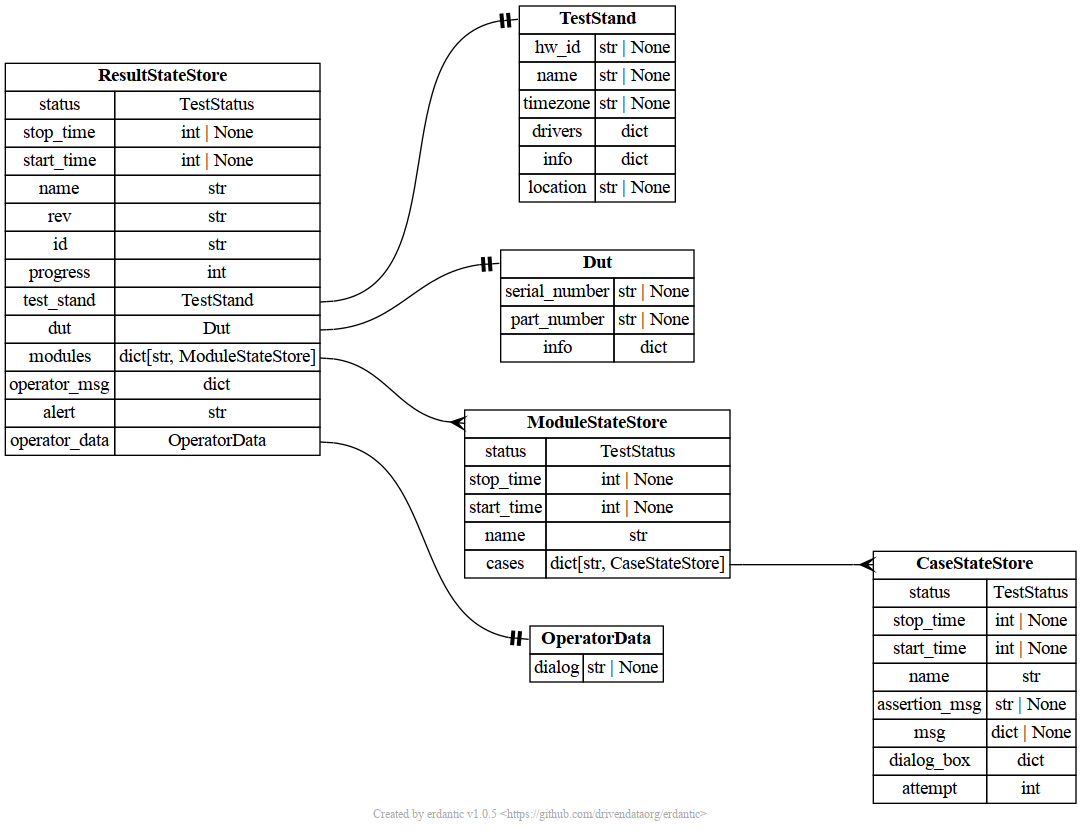
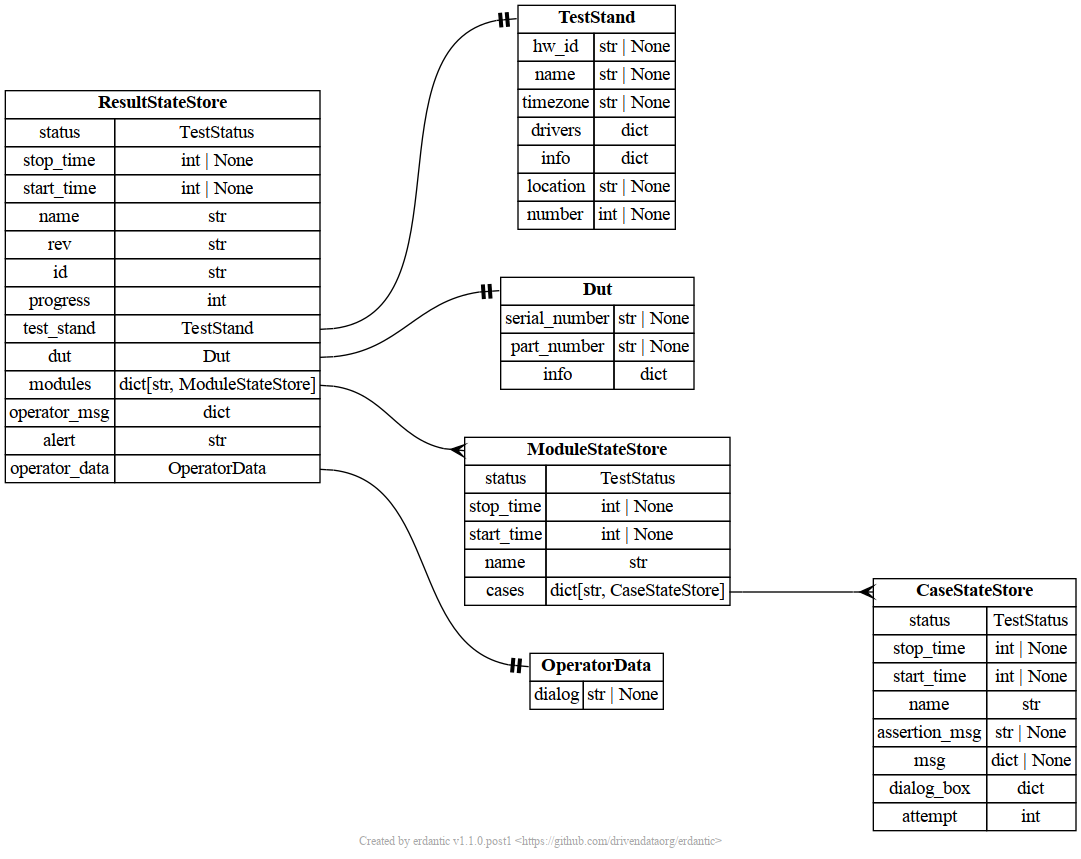
[hardpy, docs, examples, tests] Add set_stand_number function

diff --git a/tests/test_plugin/test_func.py b/tests/test_plugin/test_func.py
@@ -210,6 +210,58 @@ def test_stand_location(pytester: Pytester, hardpy_opts: list[str]):
     result.assert_outcomes(passed=1)
 
 
+def test_stand_duplicate_number(pytester: Pytester, hardpy_opts: list[str]):
+    pytester.makepyfile(
+        f"""
+        {func_test_header}
+        from hardpy import DuplicateTestStandNumberError
+
+        def test_stand_number():
+            report = hardpy.get_current_report()
+            assert (
+                report.test_stand.number is None
+            ), "Test stand number is not empty before start."
+
+            stand_number = 1
+            hardpy.set_stand_number(stand_number)
+            report = hardpy.get_current_report()
+            assert stand_number == report.test_stand.number
+
+            second_number = 2
+            with pytest.raises(DuplicateTestStandNumberError):
+                hardpy.set_stand_number(second_number)
+    """,
+    )
+    result = pytester.runpytest(*hardpy_opts)
+    result.assert_outcomes(passed=1)
+
+
+def test_stand_incorrect_number(pytester: Pytester, hardpy_opts: list[str]):
+    pytester.makepyfile(
+        f"""
+        {func_test_header}
+        from hardpy import TestStandNumberError
+
+        def test_stand_negative_number():
+            stand_number = -1
+            with pytest.raises(TestStandNumberError):
+                hardpy.set_stand_number(stand_number)
+
+        def test_stand_float_number():
+            stand_number = 1.1
+            with pytest.raises(TestStandNumberError):
+                hardpy.set_stand_number(stand_number)
+
+        def test_stand_str_number():
+            stand_number = "1"
+            with pytest.raises(TestStandNumberError):
+                hardpy.set_stand_number(stand_number)
+    """,
+    )
+    result = pytester.runpytest(*hardpy_opts)
+    result.assert_outcomes(passed=3)
+
+
 def test_stand_info(pytester: Pytester, hardpy_opts: list[str]):
     pytester.makepyfile(
         f"""

diff --git a/hardpy/pytest_hardpy/pytest_call.py b/hardpy/pytest_hardpy/pytest_call.py
@@ -23,8 +23,10 @@ from hardpy.pytest_hardpy.utils import (
     DuplicateSerialNumberError,
     DuplicateTestStandLocationError,
     DuplicateTestStandNameError,
+    DuplicateTestStandNumberError,
     HTMLComponent,
     ImageComponent,
+    TestStandNumberError,
 )
 
 
@@ -138,12 +140,35 @@ def set_stand_location(location: str) -> None:
 
     Args:
         location (str): test stand location
+
+    Raises:
+        DuplicateTestStandLocationError: if test stand location is already set
     """
     reporter = RunnerReporter()
     key = reporter.generate_key(DF.TEST_STAND, DF.LOCATION)
     if reporter.get_field(key):
         raise DuplicateTestStandLocationError
     reporter.set_doc_value(key, location)
+    reporter.update_db_by_doc()
+
+
+def set_stand_number(number: int) -> None:
+    """Add test stand number to document.
+
+    Args:
+        number (int): test stand number (non negative integer)
+
+    Raises:
+        DuplicateTestStandNumberError: if stand number is already set
+        TestStandNumberError: if stand number is incorrect (negative or non integer)
+    """
+    reporter = RunnerReporter()
+    key = reporter.generate_key(DF.TEST_STAND, DF.NUMBER)
+    if not isinstance(number, int) or number < 0:
+        raise TestStandNumberError
+    if reporter.get_field(key):
+        raise DuplicateTestStandNumberError
+    reporter.set_doc_value(key, number)
     reporter.update_db_by_doc()
 
 

diff --git a/hardpy/__init__.py b/hardpy/__init__.py
@@ -19,6 +19,7 @@ from hardpy.pytest_hardpy.pytest_call import (
     set_stand_info,
     set_stand_location,
     set_stand_name,
+    set_stand_number,
 )
 from hardpy.pytest_hardpy.result import (
     CouchdbLoader,
@@ -34,12 +35,14 @@ from hardpy.pytest_hardpy.utils import (
     DuplicateSerialNumberError,
     DuplicateTestStandLocationError,
     DuplicateTestStandNameError,
+    DuplicateTestStandNumberError,
     HTMLComponent,
     ImageComponent,
     MultistepWidget,
     NumericInputWidget,
     RadiobuttonWidget,
     StepWidget,
+    TestStandNumberError,
     TextInputWidget,
 )
 
@@ -53,6 +56,7 @@ __all__ = [
     "DuplicateSerialNumberError",
     "DuplicateTestStandLocationError",
     "DuplicateTestStandNameError",
+    "DuplicateTestStandNumberError",
     "HTMLComponent",
     "ImageComponent",
     "MultistepWidget",
@@ -63,6 +67,7 @@ __all__ = [
     "StandCloudLoader",
     "StandCloudReader",
     "StepWidget",
+    "TestStandNumberError",
     "TextInputWidget",
     "clear_operator_message",
     "get_current_attempt",
@@ -80,4 +85,5 @@ __all__ = [
     "set_stand_info",
     "set_stand_location",
     "set_stand_name",
+    "set_stand_number",
 ]

diff --git a/hardpy/pytest_hardpy/db/schema/v1.py b/hardpy/pytest_hardpy/db/schema/v1.py
@@ -188,7 +188,8 @@ class TestStand(BaseModel):
             "port": 8000
           }
         },
-        "location": "Belgrade_1"
+        "location": "Belgrade_1",
+        "number": 2
       }
     }
     ```
@@ -202,6 +203,7 @@ class TestStand(BaseModel):
     drivers: dict = {}
     info: dict = {}
     location: str | None = None
+    number: int | None = None
 
 
 class OperatorData(BaseModel):
@@ -261,7 +263,8 @@ class ResultStateStore(IBaseResult):
             "port": 8000
           }
         },
-        "location": "Belgrade_1"
+        "location": "Belgrade_1",
+        "number": 2
       },
       "operator_msg": {
         "msg": "Operator message",
@@ -363,7 +366,8 @@ class ResultRunStore(IBaseResult):
             "port": 8000
           }
         },
-        "location": "Belgrade_1"
+        "location": "Belgrade_1",
+        "number": 2
       },
       "artifact": {},
       "modules": {

diff --git a/hardpy/pytest_hardpy/utils/__init__.py b/hardpy/pytest_hardpy/utils/__init__.py
@@ -20,7 +20,9 @@ from hardpy.pytest_hardpy.utils.exception import (
     DuplicateSerialNumberError,
     DuplicateTestStandLocationError,
     DuplicateTestStandNameError,
+    DuplicateTestStandNumberError,
     ImageError,
+    TestStandNumberError,
     WidgetInfoError,
 )
 from hardpy.pytest_hardpy.utils.machineid import machine_id
@@ -37,6 +39,7 @@ __all__ = [
     "DuplicateSerialNumberError",
     "DuplicateTestStandLocationError",
     "DuplicateTestStandNameError",
+    "DuplicateTestStandNumberError",
     "HTMLComponent",
     "ImageComponent",
     "ImageError",
@@ -47,6 +50,7 @@ __all__ = [
     "RadiobuttonWidget",
     "SingletonMeta",
     "StepWidget",
+    "TestStandNumberError",
     "TestStatus",
     "TextInputWidget",
     "WidgetInfoError",

diff --git a/hardpy/pytest_hardpy/utils/exception.py b/hardpy/pytest_hardpy/utils/exception.py
@@ -37,6 +37,20 @@ class DuplicateTestStandLocationError(HardpyError):
         super().__init__(self.__doc__)  # type: ignore
 
 
+class DuplicateTestStandNumberError(HardpyError):
+    """The test stand number has already been determined."""
+
+    def __init__(self) -> None:
+        super().__init__(self.__doc__)  # type: ignore
+
+
+class TestStandNumberError(HardpyError):
+    """The test stand number is in the incorrect format."""
+
+    def __init__(self) -> None:
+        super().__init__(self.__doc__)  # type: ignore
+
+
 class WidgetInfoError(HardpyError):
     """The widget info is not correct."""
 

diff --git a/hardpy/pytest_hardpy/db/base_store.py b/hardpy/pytest_hardpy/db/base_store.py
@@ -100,6 +100,7 @@ class BaseStore(BaseConnector):
                     DF.NAME: None,
                     DF.TIMEZONE: None,
                     DF.LOCATION: None,
+                    DF.NUMBER: None,
                     DF.DRIVERS: {},
                     DF.INFO: {},
                 },
@@ -120,6 +121,7 @@ class BaseStore(BaseConnector):
             DF.NAME: None,
             DF.TIMEZONE: None,
             DF.LOCATION: None,
+            DF.NUMBER: None,
             DF.DRIVERS: {},
             DF.INFO: {},
         }

diff --git a/examples/stand_cloud/test_1.py b/examples/stand_cloud/test_1.py
@@ -27,6 +27,7 @@ def test_stand_info():
     test_stand_name = "Stand 1"
     hardpy.set_stand_name(test_stand_name)
     hardpy.set_stand_location("Moon")
+    hardpy.set_stand_number(2)
     info = {"some_info": "123"}
     hardpy.set_stand_info(info)
     assert True

diff --git a/examples/minute_parity/test_1.py b/examples/minute_parity/test_1.py
@@ -25,6 +25,7 @@ def test_stand_info():
     test_stand_name = "Stand 1"
     hardpy.set_stand_name(test_stand_name)
     hardpy.set_stand_location("Moon")
+    hardpy.set_stand_number(2)
     info = {
         "some_info": "123",
         "release": "1.0.0",

diff --git a/hardpy/pytest_hardpy/db/const.py b/hardpy/pytest_hardpy/db/const.py
@@ -38,3 +38,4 @@ class DatabaseField(str, Enum):
     ALERT = "alert"
     OPERATOR_DATA = "operator_data"
     DIALOG = "dialog"
+    NUMBER = "number"

diff --git a/docs/documentation/pytest_hardpy.md b/docs/documentation/pytest_hardpy.md
@@ -118,6 +118,23 @@ def test_stand_info():
     set_stand_location("Moon")
 ```
 
+#### set_stand_number
+
+Writes a integer number with a test stand number.
+When called again, the exception `DuplicateTestStandNumberError` will be caused.
+When called with negative or non-integer number, the exception `TestStandNumberError` will be caused.
+
+**Arguments:**
+
+- `number` *(int)*: test stand number
+
+**Example:**
+
+```python
+def test_stand_number():
+    set_stand_number(3)
+```
+
 #### set_driver_info
 
 The function records a dictionary containing information about the test stand driver.

diff --git a/docs/examples/stand_cloud.md b/docs/examples/stand_cloud.md
@@ -126,6 +126,7 @@ def test_stand_info():
     test_stand_name = "Stand 1"
     hardpy.set_stand_name(test_stand_name)
     hardpy.set_stand_location("Moon")
+    hardpy.set_stand_number(3)
     info = {"some_info": "123"}
     hardpy.set_stand_info(info)
     assert True
